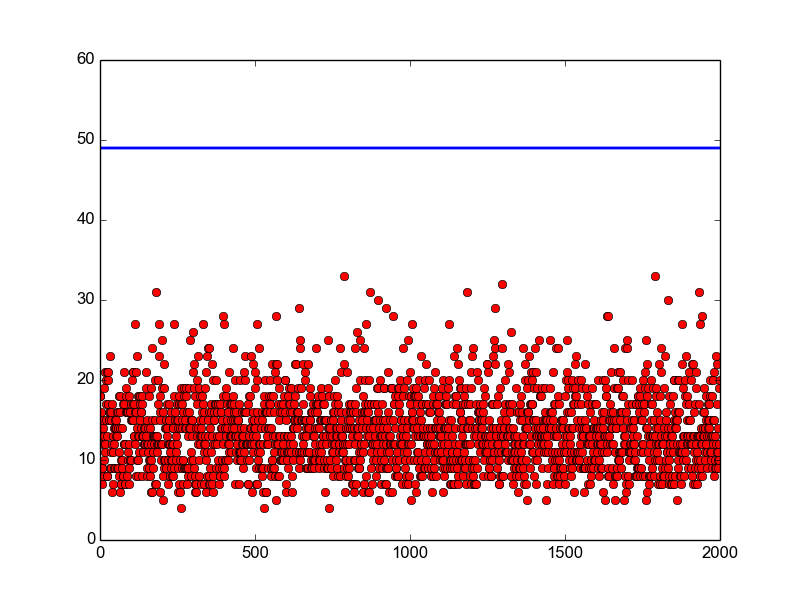
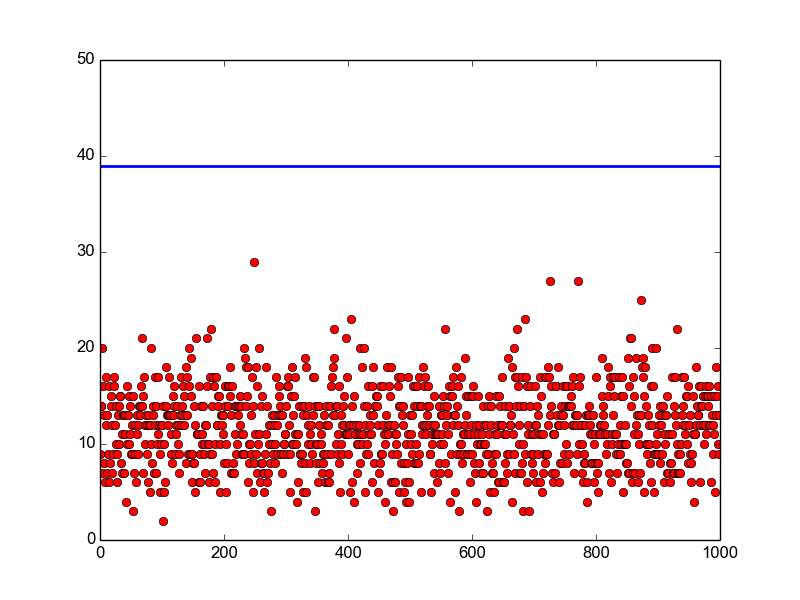
test both sides of threshold cut on eigenvectors

diff --git a/fiedler.py b/fiedler.py
@@ -33,7 +33,7 @@ def randomvector(v):
     multiplier = []
     k = len(v[0])
     for j in range(k):
-        multiplier.append(random.uniform(-5, 5))
+        multiplier.append(random.uniform(0, 5))
     return sp.dot(v, multiplier)
 
 
@@ -43,7 +43,7 @@ def nonnegative(z):
         return
     counter = 0
     for i in range(1, len(z)):
-        if z[i]>=0:
+        if z[i] >= 0:
             counter += 1
     return counter
 
@@ -51,6 +51,7 @@ def nonnegative(z):
 def general_fiedler(G, k, trials, plotname):
     '''Number of components when you apply the threshold cut on a random vector in the span of 1st k'''
     v = keigenvectors(G, k)
+    print v
     flag = 1
     x_data = []
     y_data = []
@@ -70,6 +71,7 @@ def general_fiedler(G, k, trials, plotname):
         if n > k-1:
             flag = 0
             print 'Number of components: ' + str(n)
+            print 'z = ' + str(z)
     if flag:
         print 'Not found, number of components: ' + str(n)
     k_data = [k-1 for x in x_data]
@@ -83,3 +85,22 @@ def search(G, trials, plotname):
     n = len(G.nodes())
     for k in range(2, n):
         general_fiedler(G, k, trials, plotname)
+
+
+def doublethreshold(G, v):
+    '''Given vector v check number of components in both sides of all possible thresholds'''
+    n = len(v)
+    u = [(v[i], i) for i in range(n)]
+    u.sort()
+    result = list()
+    for i in range(1, n):
+        tmp1 = u[:i]
+        tmp2 = u[i:]
+        tmp1 = [x[1] for x in tmp1]
+        tmp2 = [x[1] for x in tmp2]
+        H1 = G.subgraph(tmp1)
+        H2 = G.subgraph(tmp2)
+        n1 = nx.number_connected_components(H1)
+        n2 = nx.number_connected_components(H2)
+        result.append(max(n1, n2))
+    return reduce(lambda x, y:max(x, y), result)
